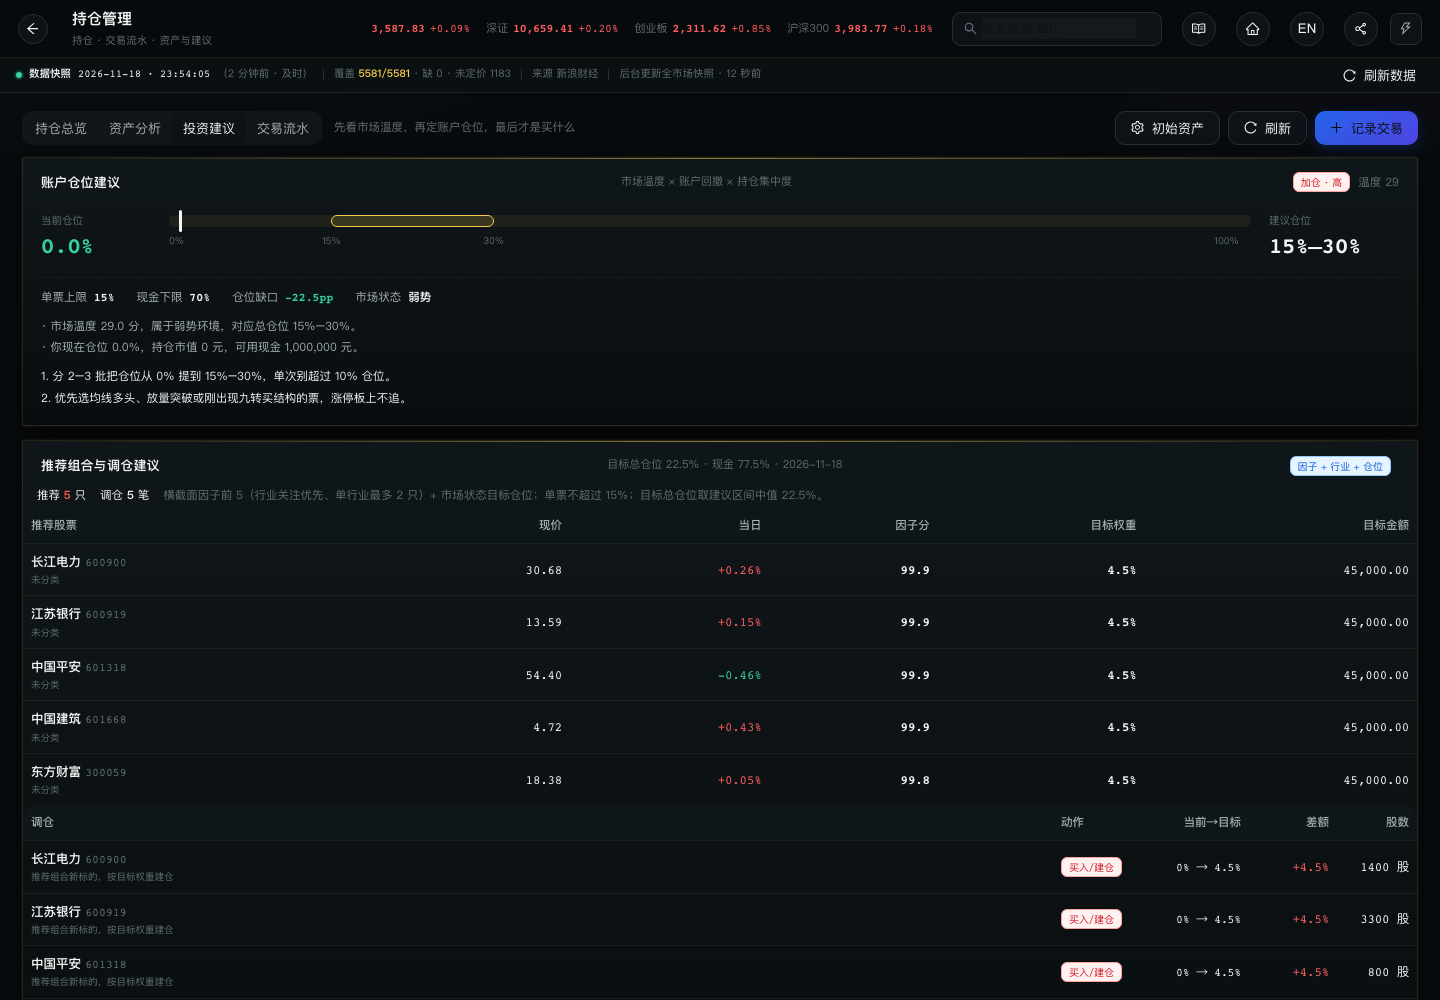
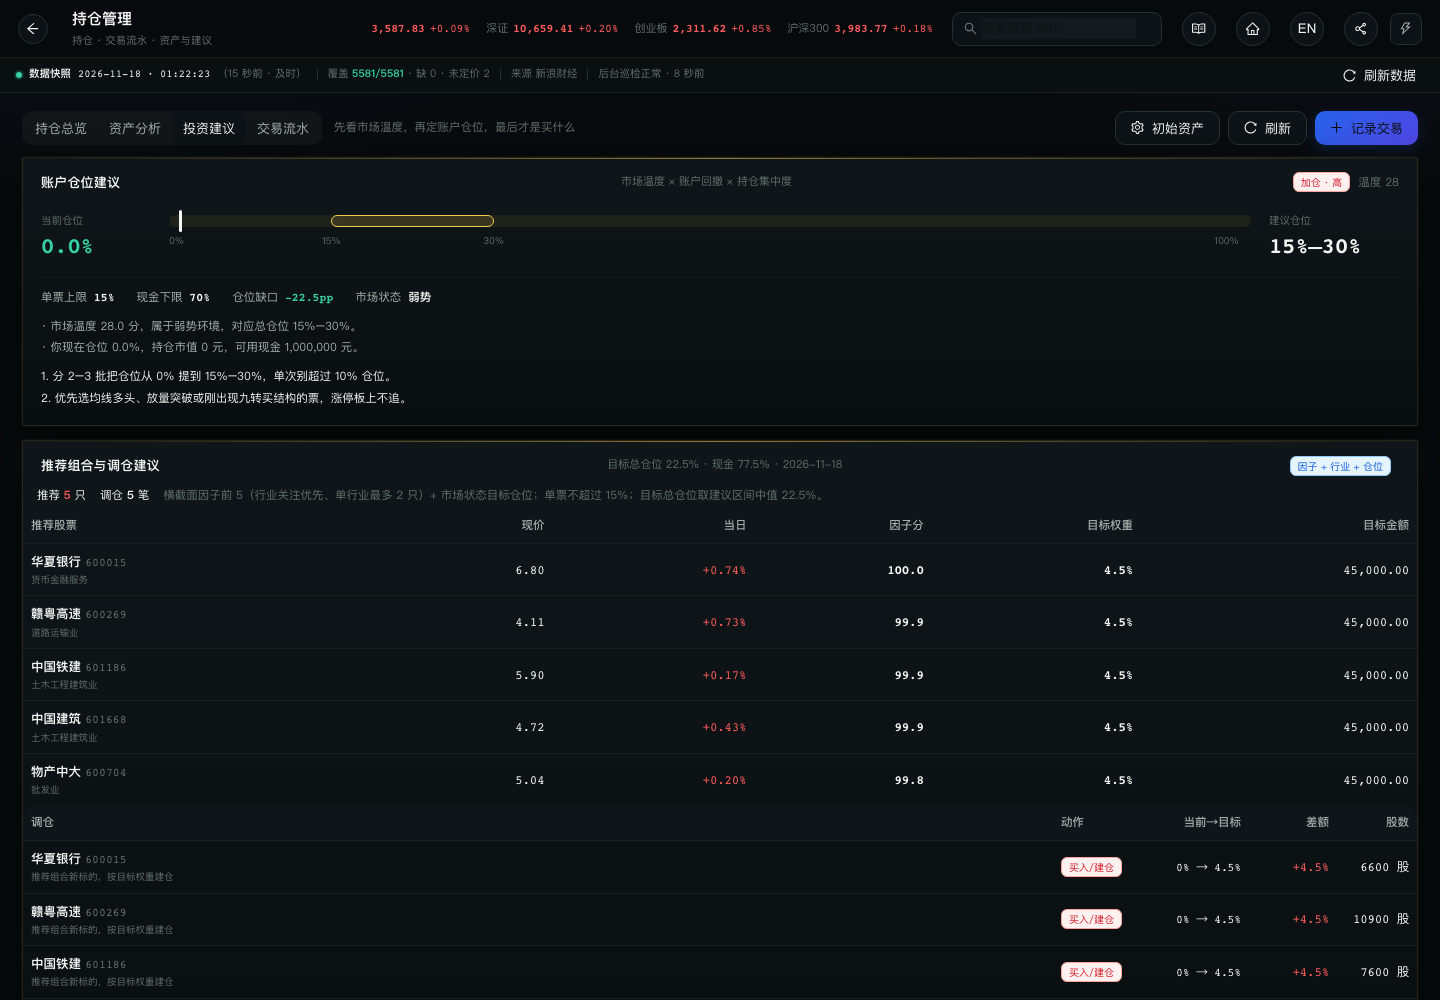
feat: robust F10 profile, factor momentum/industry, model fit diagnostics

diff --git a/desktop/frontend/src/pages/Factors.tsx b/desktop/frontend/src/pages/Factors.tsx
@@ -28,7 +28,7 @@ export default function Factors() {
   const [loading, setLoading] = useState(true)
   const [market, setMarket] = useState('全部')
   const [search, setSearch] = useState('')
-  const [minScore, setMinScore] = useState(50)
+  const [minScore, setMinScore] = useState(0)
 
   const load = async () => {
     setLoading(true)
@@ -109,7 +109,7 @@ export default function Factors() {
           <div><b>5. 分数含义</b><span>0–100 是横截面百分位，不是预期收益；历史 IC 需持久化每日快照，本页不伪造。</span></div>
           <div className="factor-trace muted mono">
             算法 {data.trace?.algorithm ?? '--'} · 快照 {data.trace?.snapshot_date ?? data.date ?? '--'} · {data.trace?.rows ?? data.total ?? '--'} 行 / {data.trace?.candidates ?? data.scanned ?? '--'} 只候选 · 来源 {data.source ?? '--'}
-            {data.trace?.momentum_coverage === 0 ? ' · 当前快照源不提供 60 日动量，动量因子已明确剔除' : ''}
+            {data.trace?.momentum_coverage === 0 ? ' · 快照源不提供 60 日动量；已用日内动量作为短期代理' : ''}
             {data.trace?.flow_coverage != null ? ` · 资金覆盖 ${(Number(data.trace.flow_coverage) * 100).toFixed(0)}%` : ''}
           </div>
         </div>
@@ -224,6 +224,7 @@ export default function Factors() {
               render: (v: number) => <span className="num muted" style={{ fontSize: 11 }}>{fmtZ(v)}</span>,
             })),
             { title: '60日动量', dataIndex: 'pct60', align: 'right', render: (v: number) => v == null ? <span className="muted small">源未提供</span> : <span className={`num ${trendClass(v)}`}>{fmt.pct(v)}</span> },
+            { title: '日内动量', dataIndex: 'intraday', align: 'right', render: (v: number) => <span className={`num ${trendClass(v)}`}>{v == null ? '--' : fmt.pct(v)}</span> },
             { title: '资金占比', dataIndex: 'main_inflow_ratio', align: 'right', render: (v: number) => <span className={`num ${trendClass(v)}`}>{v == null ? '--' : `${v > 0 ? '+' : ''}${Number(v).toFixed(2)}%`}</span> },
             { title: '成交额', dataIndex: 'amount', align: 'right', render: (v: number) => <span className="num muted">{fmt.big(v)}</span> },
             { title: 'PE / PB', render: (_: any, r: any) => <span className="num small">{fmt.price(r.pe, 1)} / {fmt.price(r.pb, 2)}</span>, align: 'right' },

diff --git a/desktop/frontend/src/styles.css b/desktop/frontend/src/styles.css
@@ -4155,3 +4155,23 @@ html, body { overflow-x: hidden; }
 }
 .special-region-strip .chip { cursor: pointer; border: 0; }
 .special-region-strip .chip.active { background: var(--accent); color: #111; }
+
+/* Model diagnostics: makes over/under-fit visible without consuming a whole row. */
+.model-health {
+  display: grid;
+  grid-template-columns: repeat(4, minmax(0, 1fr));
+  gap: 1px;
+  margin: 0 0 10px;
+  background: var(--border-soft);
+  border: 1px solid var(--border-soft);
+  border-radius: 9px;
+  overflow: hidden;
+}
+.model-health > div { background: var(--card-2); padding: 8px 11px; display: flex; flex-direction: column; gap: 2px; }
+.model-health span { font-size: calc(9.5px * var(--fs, 1)); color: var(--text-dim); }
+.model-health b { font-family: SF Mono, monospace; font-size: calc(16px * var(--fs, 1)); color: var(--text); }
+.model-health b small { font-size: 9px; color: var(--text-dim); }
+.model-health b.warn { color: var(--accent); }
+.model-health em { font-style: normal; font-size: calc(9px * var(--fs, 1)); color: var(--text-sub); }
+.model-health .model-health-note { grid-column: 1 / -1; font-size: calc(10px * var(--fs, 1)); color: var(--text-sub); line-height: 1.7; }
+@media (max-width: 900px) { .model-health { grid-template-columns: repeat(2, minmax(0, 1fr)); } }

diff --git a/desktop/frontend/src/pages/Models.tsx b/desktop/frontend/src/pages/Models.tsx
@@ -706,6 +706,16 @@ export default function Models() {
         </div>
       )}
 
+      {hmm ? (
+        <div className="model-health">
+          <div><span>HMM 拟合</span><b className={hmm.converged ? 'up' : 'warn'}>{hmm.converged ? '已收敛' : '未完全收敛'}</b><em>迭代 {hmm.iterations ?? '--'} 次</em></div>
+          <div><span>拟合质量</span><b>{hmm.quality ?? '--'}<small>/100</small></b><em>低于 60 会自动收缩仓位</em></div>
+          <div><span>BIC</span><b>{hmm.bic ?? '--'}</b><em>AIC {hmm.aic ?? '--'} · 越低越好</em></div>
+          <div><span>校准后置信</span><b>{hmm.calibrated_confidence != null ? `${Math.round(hmm.calibrated_confidence * 100)}%` : '--'}</b><em>原始 {hmm.confidence != null ? `${Math.round(hmm.confidence * 100)}%` : '--'}</em></div>
+          <div className="model-health-note">模型也会“知道自己不确定”：拟合质量低、状态重叠或未收敛时，建议仓位向 50% 收缩，避免把噪声当信号。因子筛选同样按覆盖率和可靠性收缩极端分数。</div>
+        </div>
+      ) : null}
+
       <div className="ensemble-grid">
         <div className="ensemble-score">
           <span>综合评分</span>

diff --git a/desktop/frontend/src/pages/StockDetail.tsx b/desktop/frontend/src/pages/StockDetail.tsx
@@ -446,7 +446,7 @@ export default function StockDetail() {
       </div>
 
       <div style={{ marginTop: 14 }}>
-        <Card className="company-profile" title="公司概况" desc="东方财富 / 巨潮 F10；接口缺失显示 --，长文本自动换行" pad={false}>
+        <Card className="company-profile" title="公司概况" desc={`来源：${prof.source === 'cninfo' ? '巨潮资讯' : prof.source === 'eastmoney+cninfo' ? '东方财富 + 巨潮兜底' : '东方财富 F10'}；缺失显示 --，长文本自动换行`} pad={false}>
           <div style={{ padding: 16, display: 'grid', gridTemplateColumns: 'repeat(auto-fit, minmax(220px, 1fr))', gap: '0 26px' }}>
             <StatLine k="公司全称" v={prof.org_name || '--'} />
             <StatLine k="所属行业" v={prof.industry || '--'} />

diff --git a/desktop/backend/market.py b/desktop/backend/market.py
@@ -1755,13 +1755,56 @@ def financials(code: str, periods: int = 8) -> list[dict]:
     return rows
 
 
+def _sina_company_profile(code: str) -> dict:
+    """Last-resort company profile from Sina's public company page.
+
+    Eastmoney F10 can be rate-limited and CNInfo needs an Accept-Enckey that its
+    bundled JS signer occasionally cannot produce inside PyInstaller.  Sina's
+    HTML table needs neither, so the company card remains populated.
+    """
+    import html as _html
+    import re as _re
+
+    try:
+        url = f"https://vip.stock.finance.sina.com.cn/corp/go.php/vCI_CorpInfo/stockid/{code}.phtml"
+        req = urllib.request.Request(url, headers={"User-Agent": UA, "Referer": "https://finance.sina.com.cn/"})
+        raw = urllib.request.urlopen(req, timeout=12).read().decode("gbk", "ignore")
+        fields = {}
+        for label, value in _re.findall(r'<td class="ct">([^<]+)</td>\s*<td[^>]*>(.*?)</td>', raw, _re.S):
+            key = _html.unescape(label).strip().rstrip("：:")
+            val = _html.unescape(_re.sub(r"<[^>]+>", " ", value)).strip()
+            if key and val:
+                fields[key] = _re.sub(r"\s+", " ", val)
+        if not fields:
+            return {}
+        def pick(*names):
+            for n in names:
+                if fields.get(n):
+                    return fields[n]
+            return None
+        return {
+            "org_name": pick("公司名称"), "industry": pick("所属行业"),
+            "reg_capital": _num(pick("注册资本")), "employees": None,
+            "found_date": (pick("成立日期") or "")[:10], "listing_date": (pick("上市日期") or "")[:10],
+            "profile": pick("公司简介"), "scope": pick("经营范围"), "main_business": pick("主营业务"),
+            "website": pick("公司网址"), "email": pick("电子信箱"), "phone": pick("联系电话"),
+            "chairman": pick("法人代表"), "secretary": None, "legal_person": pick("法人代表"),
+            "reg_number": None, "address": pick("注册地址"), "source": "sina",
+        }
+    except Exception:
+        return {}
+
+
 def profile(code: str) -> dict:
-    key = f"profile:{code}"
+    key = f"profile:v3:{code}"
     cached = db.cache_get(key, 86400 * 7)
     if cached is not None:
-        if cached:
+        # A previous partial fallback may contain only an industry name.  It is
+        # truthy but useless for the company card, so retry instead of serving
+        # it for seven days.
+        if cached.get("org_name") and (cached.get("main_business") or cached.get("profile") or cached.get("scope")):
             return cached
-        db.cache_delete(key)  # never serve a permanently empty profile
+        db.cache_delete(key)
     url = (
         "https://datacenter.eastmoney.com/securities/api/data/v1/get"
         "?reportName=RPT_F10_BASIC_ORGINFO"
@@ -1794,10 +1837,13 @@ def profile(code: str) -> dict:
                 "legal_person": x.get("LEGAL_PERSON"),
                 "reg_number": x.get("REG_NUM"),
                 "address": x.get("REG_ADDRESS"),
+                "source": "eastmoney",
             }
     except Exception:
         pass
-    if not out:
+    # Merge CNInfo when Eastmoney only returned a name/industry shell.  The
+    # common failure is a partial F10 response, not a completely empty one.
+    if not out or not out.get("main_business") or not (out.get("profile") or out.get("scope")):
         # Eastmoney F10 can be rate-limited; CNInfo is an independent F10
         # source and keeps the company-profile card usable.
         try:
@@ -1811,7 +1857,7 @@ def profile(code: str) -> dict:
                         if v is not None and str(v).strip() and str(v).strip() != "nan":
                             return str(v).strip()
                     return None
-                out = {
+                fb = {
                     "org_name": pick("公司名称"),
                     "industry": pick("所属行业"),
                     "reg_capital": _num(pick("注册资金")),
@@ -1829,9 +1875,24 @@ def profile(code: str) -> dict:
                     "legal_person": pick("法人代表"),
                     "reg_number": None,
                     "address": pick("注册地址"),
+                    "source": "cninfo",
                 }
+                for k, v in fb.items():
+                    if v and not out.get(k):
+                        out[k] = v
+                if out:
+                    out["source"] = "eastmoney+cninfo" if out.get("source") == "eastmoney" else "cninfo"
         except Exception:
             pass
+    if not out or not out.get("main_business") or not (out.get("profile") or out.get("scope")):
+        fb = _sina_company_profile(code)
+        for k, v in (fb or {}).items():
+            if v and not out.get(k):
+                out[k] = v
+        if fb and out:
+            out["source"] = "eastmoney+sina" if out.get("source") == "eastmoney" else (fb.get("source") or "sina")
+    if not out.get("industry"):
+        out["industry"] = industry_name(code)
     if out:
         db.cache_set(key, out)
     return out
@@ -1842,9 +1903,12 @@ def concepts(code: str) -> list[str]:
     key = f"concepts:{code}"
     cached = db.cache_get(key, 86400 * 7)
     if cached is not None:
-        if cached:
+        # A previous partial fallback may contain only an industry name.  It is
+        # truthy but useless for the company card, so retry instead of serving
+        # it for seven days.
+        if cached.get("org_name") and (cached.get("main_business") or cached.get("profile") or cached.get("scope")):
             return cached
-        db.cache_delete(key)  # never serve a permanently empty profile
+        db.cache_delete(key)
     url = (
         "https://datacenter.eastmoney.com/securities/api/data/v1/get"
         "?reportName=RPT_F10_CORETHEME_BOARDTYPE"
@@ -1862,6 +1926,10 @@ def concepts(code: str) -> list[str]:
                 names.append(n)
     except Exception:
         pass
+    if not names:
+        ind = industry_name(code)
+        if ind:
+            names = [ind]
     db.cache_set(key, names)
     return names
 

diff --git a/desktop/backend/factors.py b/desktop/backend/factors.py
@@ -47,6 +47,9 @@ FACTOR_SPECS = [
     {"name": "mom60", "label": "60日动量", "category": "momentum", "direction": 1,
      "horizon": "中长期", "source": "行情", "field": "pct60",
      "desc": "近 60 个交易日涨幅；越高代表中期趋势越强。"},
+    {"name": "intraday_mom", "label": "日内动量", "category": "momentum", "direction": 1,
+     "horizon": "短期", "source": "行情", "field": "open", "calc": "intraday",
+     "desc": "（现价-今开）/今开；衡量当日盘中承接，是快照源没有60日涨幅时的短期动量代理。"},
     {"name": "mom_ytd", "label": "年内涨幅", "category": "momentum", "direction": 1,
      "horizon": "长期", "source": "行情", "field": "pct_ytd",
      "desc": "年初至今涨幅；代表长期动量与资金偏好。"},
@@ -117,6 +120,11 @@ def _value(row: dict, spec: dict) -> float | None:
                 x = (high - low) / prev * 100.0
         if x is None:
             return None
+    elif calc == "intraday":
+        price, open_ = _num(row.get("price")), _num(row.get("open"))
+        if price is None or open_ is None or open_ <= 0:
+            return None
+        return (price - open_) / open_ * 100.0
     elif calc == "range_pos":
         price, high, low = _num(row.get("price")), _num(row.get("high")), _num(row.get("low"))
         if price is None or high is None or low is None or high <= low:
@@ -308,13 +316,16 @@ def snapshot(limit: int = 100, min_amount: float = 30_000_000,
         stocks.append({
             "code": row.get("code"), "name": name,
             "price": round(price, 2), "pct": _num(row.get("pct")),
-            "market": row.get("market"), "industry": row.get("industry"),
+            "market": row.get("market"),
+            "industry": row.get("industry") or market.industry_name(str(row.get("code") or "")),
             "pe": _num(row.get("pe")), "pb": _num(row.get("pb")),
             "turnover": _num(row.get("turnover")), "amount": amount,
             "main_inflow": _num(row.get("main_inflow")),
             "main_inflow_ratio": round((_num(row.get("main_inflow")) or 0) / amount * 100, 3) if amount else None,
             "pct60": _num(row.get("pct60")),
             "pct_ytd": _num(row.get("pct_ytd")),
+            "intraday": (round((price / float(row["open"]) - 1) * 100, 2)
+                         if _num(row.get("open")) and float(row["open"]) > 0 else None),
             "percentile": round(float(pct[i]), 4), "raw_score": round(raw_score, 1),
             "score": round(adjusted, 1), "reliability": round(reliability, 3),
             "coverage": round(category_hits[i] / max(len(cat_z), 1), 3),
@@ -360,6 +371,7 @@ def snapshot(limit: int = 100, min_amount: float = 30_000_000,
             "rank_transform": "normal-inverse-cdf",
             "missing_policy": "category-neutral-with-coverage",
             "momentum_coverage": next((f["coverage"] for f in factor_rows if f["name"] == "mom60"), None),
+            "intraday_momentum_coverage": next((f["coverage"] for f in factor_rows if f["name"] == "intraday_mom"), None),
             "flow_coverage": next((f["coverage"] for f in factor_rows if f["name"] == "flow_ratio"), None),
             "min_amount": min_amount,
             "exclude_st": bool(exclude_st),

diff --git a/desktop/backend/models.py b/desktop/backend/models.py
@@ -237,10 +237,16 @@ def _hmm(x: np.ndarray, k: int = int(model_registry.MODELS["hmm"]["params"]["sta
         100 * (float(probs[0]) * 0.85 + next_day_switch * 0.35 + (1 - conf) * 0.15)
         + (8 if sep is not None and sep < 0.4 else 0)
     ))))
+    # Shrink toward neutral when the fit is weak.  A non-converged or
+    # overlapping HMM should not produce a high-conviction 85% exposure just
+    # because one posterior probability happened to be 0.8.
+    fit_reliability = max(0.35, min(1.0, quality / 70.0))
+    calibrated_conf = 0.5 + (conf - 0.5) * fit_reliability
     exposure = [0.25, 0.50, 0.75][min(current, 2)]
     exposure += (conf - 0.5) * 0.20
     if current == 0:
         exposure -= 0.08
+    exposure = 0.5 + (exposure - 0.5) * fit_reliability
     exposure = round(max(0.10, min(0.90, exposure)), 2)
     next_entropy = float(-(A[current] * np.log(np.maximum(A[current], 1e-12))).sum() / math.log(k))
 
@@ -264,6 +270,8 @@ def _hmm(x: np.ndarray, k: int = int(model_registry.MODELS["hmm"]["params"]["sta
         "state_separation": sep,
         "separation_label": separation_label,
         "quality": quality,
+        "fit_reliability": round(fit_reliability, 3),
+        "calibrated_confidence": round(calibrated_conf, 4),
         "risk_score": risk_score,
         "suggested_exposure": exposure,
         "transition_entropy": round(next_entropy, 3),
@@ -879,7 +887,7 @@ def model_snapshot() -> dict:
     the page usable, with the timestamp visible.
     """
     global _MODEL_REFRESHING
-    cached = db.cache_get("market:models:v9")
+    cached = db.cache_get("market:models:v10")
     if cached:
         age = time.time() - float(cached.get("ts") or 0)
         if age > 600:
@@ -892,7 +900,7 @@ def model_snapshot() -> dict:
 
 
 def _compute_model_snapshot() -> dict:
-    cached = db.cache_get("market:models:v9", 600)
+    cached = db.cache_get("market:models:v10", 600)
     if cached:
         return cached
     rows = (market.fetch_spot(ttl=600) or {}).get("rows") or []
@@ -969,5 +977,5 @@ def _compute_model_snapshot() -> dict:
         "conclusion": conclusion,
         "model_meta": model_registry.meta(),
     }
-    db.cache_set("market:models:v9", out)
+    db.cache_set("market:models:v10", out)
     return out

diff --git a/desktop/backend/api.py b/desktop/backend/api.py
@@ -173,7 +173,7 @@ def market_td(code: str, limit: int = Query(220, ge=30, le=800)):
 @router.get("/api/market/industry-focus")
 def market_industry_focus():
     """Industry breadth + flow + key names from the cached model snapshot."""
-    snap = db.cache_get("market:models:v9", 900)
+    snap = db.cache_get("market:models:v10", 900)
     if snap:
         return ok({"focus": snap.get("industry_focus") or [], "td": snap.get("td") or {},
                    "conclusion": snap.get("conclusion") or {}, "cached": True})
@@ -341,7 +341,7 @@ def stock_detail(code: str):
     # Industry focus: use the cached model snapshot instead of triggering a
     # full-market recompute while the user is just opening a stock.
     try:
-        snap = db.cache_get("market:models:v9", 900)
+        snap = db.cache_get("market:models:v10", 900)
         if snap:
             ind = data.get("industry") or ""
             focus = next((x for x in (snap.get("industry_focus") or []) if x.get("name") == ind), None)
@@ -734,8 +734,15 @@ def factor_snapshot(limit: int = Query(100, ge=10, le=6000),
                     min_amount: float = Query(30_000_000, ge=0),
                     exclude_st: bool = Query(True)):
     """Cross-sectional factor screen + classification over the full snapshot."""
-    return ok(factor_lib.snapshot(limit=limit, min_amount=min_amount,
-                                  exclude_st=exclude_st))
+    key = f"factor:screen:{limit}:{min_amount}:{int(exclude_st)}"
+    cached = db.cache_get(key, 30)
+    if cached:
+        return ok(cached)
+    out = factor_lib.snapshot(limit=limit, min_amount=min_amount,
+                              exclude_st=exclude_st)
+    if out.get("ready"):
+        db.cache_set(key, out)
+    return ok(out)
 
 
 @router.get("/api/backtest/strategies")

diff --git a/desktop/backend/data_status.py b/desktop/backend/data_status.py
@@ -24,7 +24,7 @@ _CACHE_ITEMS = [
     ("state", "market:state:v2", "行情状态", 120),
     ("daily", "market:daily:v11", "每日策略", 120),
     ("index", "market:index-analysis:v1", "指数分析", 300),
-    ("models", "market:models:v9", "量化模型", 600),
+    ("models", "market:models:v10", "量化模型", 600),
     ("evaluation", "model:history:v2:000300:1000", "历史测评", 1800),
 ]
 
@@ -148,7 +148,7 @@ def _refresh_worker(target: str) -> None:
             from . import state
             state.index_analysis()
         elif target == "models":
-            db.cache_delete("market:models:v9")
+            db.cache_delete("market:models:v10")
             from . import models
             models.model_snapshot()
         elif target == "evaluation":

diff --git a/desktop/backend/advice.py b/desktop/backend/advice.py
@@ -36,7 +36,7 @@ def _portfolio_plan(summary: dict, low: int, high: int, single_cap: int) -> dict
     if not snap.get("ready") or not rows:
         return {"recommended": [], "rebalance": [], "recommend_method": "因子快照暂不可用", "recommend_asof": snap.get("date")}
 
-    model = db.cache_get("market:models:v9") or {}
+    model = db.cache_get("market:models:v10") or {}
     focus = {str(x.get("name")) for x in (model.get("industry_focus") or []) if x.get("name")}
 
     def rank(row):

diff --git a/desktop/backend/scheduler.py b/desktop/backend/scheduler.py
@@ -51,7 +51,7 @@ def _cache_keys() -> dict[str, tuple[str, str]]:
         "state": ("market:state:v2", "行情状态"),
         "daily": ("market:daily:v11", "每日策略"),
         "index": ("market:index-analysis:v1", "指数分析"),
-        "models": ("market:models:v9", "量化模型"),
+        "models": ("market:models:v10", "量化模型"),
         "evaluation": ("model:history:v2:000300:1000", "历史测评"),
     }
 
